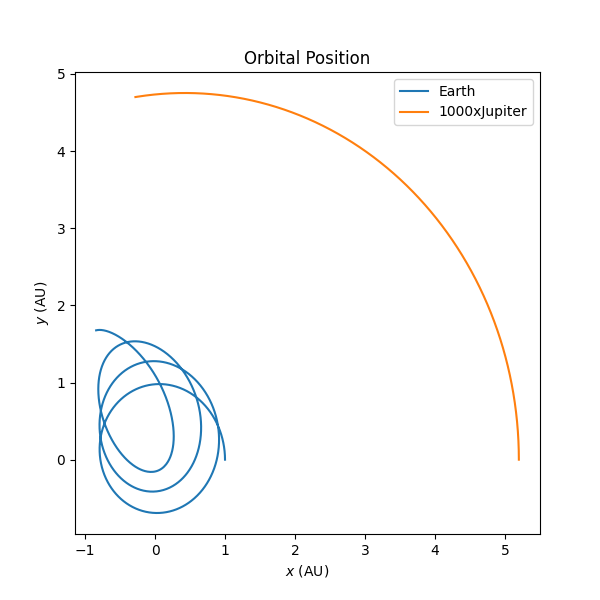
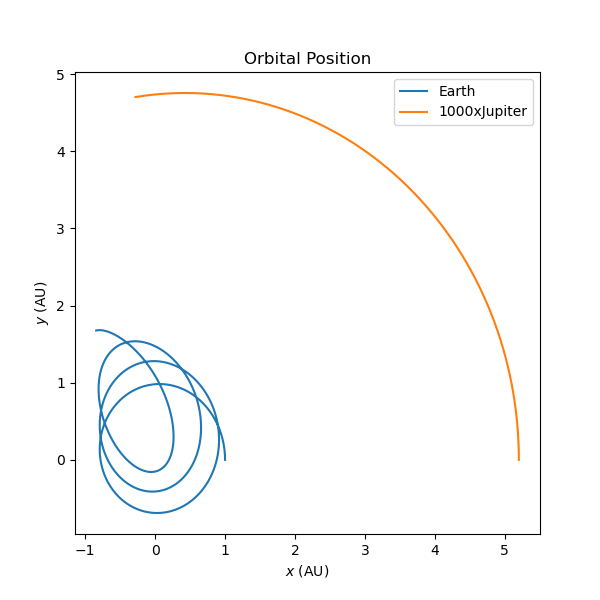
Changes to Q2

diff --git a/lab1/Q2.py b/lab1/Q2.py
@@ -21,7 +21,7 @@ def main(mjup, x0, y0, vx0, vy0, timespan, ver):
     OUTPUT: Plots
     """
     # initialize time step and end variables 
-    dt = 10 ** -3 # yr
+    dt = 10 ** -4 # yr
     N = int(timespan/dt) # steps in 10 earth years
 
     # Initialize arrays for small body with initial conditions
